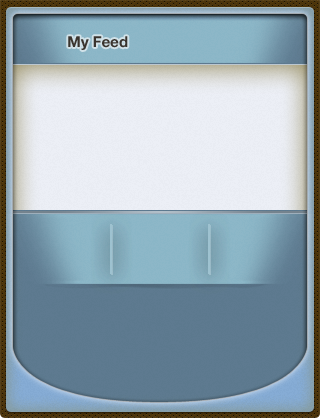
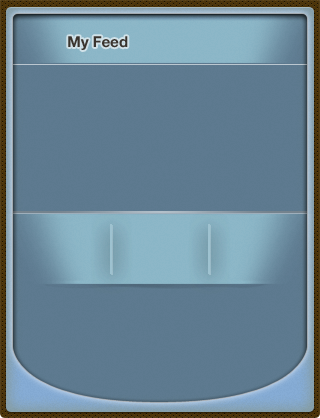
Replaced "Feed" with "Home" in tab bar
Hitting home tab dismisses the tab bar controller

diff --git a/FriendlyWager/TabBarDelegateViewController.m b/FriendlyWager/TabBarDelegateViewController.m
@@ -35,20 +35,23 @@
     [super viewDidLoad];
     // Do any additional setup after loading the view from its nib.
     
-    ScoresViewController *newWagerVC = [[ScoresViewController  alloc]initWithNibName:@"ScoresViewController" bundle:nil];
     MyActionViewController *myActionVC = [[MyActionViewController alloc]initWithNibName:@"MyActionViewController" bundle:nil];
     ScoresViewController *scoresVC = [[ScoresViewController alloc]initWithNibName:@"ScoresViewController" bundle:nil];
+    if (_newWager) {
+        scoresVC.wager = YES;
+        scoresVC.tabBarDelegateScreen = self;
+    }
     RanksViewController *ranksVC = [[RanksViewController alloc]initWithNibName:@"RanksViewController" bundle:nil];
-    FeedViewController *trashTalkVC = [[FeedViewController alloc]initWithNibName:@"FeedViewController" bundle:nil];
+    TrashTalkViewController *homeVC = [[TrashTalkViewController  alloc]initWithNibName:@"TrashTalkViewController" bundle:nil];
+    //FeedViewController *trashTalkVC = [[FeedViewController alloc]initWithNibName:@"FeedViewController" bundle:nil];
     
-    UINavigationController *newWagerNavC = [[UINavigationController alloc]initWithRootViewController:newWagerVC];
     UINavigationController *actionNavC = [[UINavigationController alloc]initWithRootViewController:myActionVC];
     UINavigationController *scoresNavC = [[UINavigationController alloc]initWithRootViewController:scoresVC];
     UINavigationController *ranksNavC = [[UINavigationController alloc]initWithRootViewController:ranksVC];
-    UINavigationController *trashTalkNavC = [[UINavigationController alloc]initWithRootViewController:trashTalkVC];
+    UINavigationController *homeNavC = [[UINavigationController alloc]initWithRootViewController:homeVC];
+    //UINavigationController *trashTalkNavC = [[UINavigationController alloc]initWithRootViewController:trashTalkVC];
     
-    //UITabBarItem *newWagerBarItem = [[UITabBarItem alloc] initWithTitle:@"New Wager" image:[UIImage imageNamed:@"FW_PG17_Cancel_Button"] tag:0];
-    //[newWagerNavC setTabBarItem:newWagerBarItem];
+    
     
     UITabBarItem *myActionBarItem = [[UITabBarItem alloc] initWithTitle:@"My Action" image:[UIImage imageNamed:@"FW_PG17_Cancel_Button"] tag:0];
     [myActionBarItem setFinishedSelectedImage:[UIImage imageNamed:@"myActionOnBtn"]
@@ -62,27 +65,32 @@
     [scoresBarItem setTitlePositionAdjustment:UIOffsetMake(0, 100)];
     [scoresNavC setTabBarItem:scoresBarItem];
     
-    UITabBarItem *ranksBarItem = [[UITabBarItem alloc] initWithTitle:@"Ranks" image:[UIImage imageNamed:@"FW_PG17_Cancel_Button"] tag:1];
+    UITabBarItem *ranksBarItem = [[UITabBarItem alloc] initWithTitle:@"Ranks" image:[UIImage imageNamed:@"FW_PG17_Cancel_Button"] tag:2];
     [ranksBarItem setFinishedSelectedImage:[UIImage imageNamed:@"rankingOnBtn"]
                 withFinishedUnselectedImage:[UIImage imageNamed:@"rankingOffBtn"]];
     [ranksBarItem setTitlePositionAdjustment:UIOffsetMake(0, 100)];
     [ranksNavC setTabBarItem:ranksBarItem];
     
-    UITabBarItem *trashTalkBarItem = [[UITabBarItem alloc] initWithTitle:@"My Feed" image:[UIImage imageNamed:@"FW_PG17_Cancel_Button"] tag:1];
+    UITabBarItem *homeBarItem = [[UITabBarItem alloc] initWithTitle:@"Home" image:[UIImage imageNamed:@"FW_PG17_Cancel_Button"] tag:3];
+    [homeBarItem setFinishedSelectedImage:[UIImage imageNamed:@"homeOnBtn"] withFinishedUnselectedImage:[UIImage imageNamed:@"homeOffBtn"]];
+    [homeBarItem setTitlePositionAdjustment:UIOffsetMake(0, 100)];
+    [homeNavC setTabBarItem:homeBarItem];
+    
+    /*UITabBarItem *trashTalkBarItem = [[UITabBarItem alloc] initWithTitle:@"My Feed" image:[UIImage imageNamed:@"FW_PG17_Cancel_Button"] tag:1];
     [trashTalkBarItem setFinishedSelectedImage:[UIImage imageNamed:@"feedOnBtn"]
                withFinishedUnselectedImage:[UIImage imageNamed:@"feedOffBtn"]];
     [trashTalkBarItem setTitlePositionAdjustment:UIOffsetMake(0, 100)];
-    [trashTalkNavC setTabBarItem:trashTalkBarItem];
+    [trashTalkNavC setTabBarItem:trashTalkBarItem];*/
     
     [self customizeInterface];
     
-    newWagerVC.wager = YES;
-    newWagerVC.tabBarDelegateScreen = self;
+    //newWagerVC.wager = YES;
+    //newWagerVC.tabBarDelegateScreen = self;
     
     
     self.tabBarController = [[UITabBarController alloc] init];
     self.tabBarController.delegate = self;
-    self.tabBarController.viewControllers = [NSArray arrayWithObjects: actionNavC, scoresNavC, ranksNavC, trashTalkNavC, nil];
+    self.tabBarController.viewControllers = [NSArray arrayWithObjects: actionNavC, scoresNavC, ranksNavC, homeNavC, nil];
     
     self.view = _tabBarController.view;
 }
@@ -97,6 +105,7 @@
 - (void)viewWillAppear:(BOOL)animated {
     [super viewWillAppear:animated];
     [self.navigationController setNavigationBarHidden:YES];
+    
 }
 
 - (BOOL)shouldAutorotateToInterfaceOrientation:(UIInterfaceOrientation)interfaceOrientation
@@ -114,5 +123,12 @@
     [[UITabBar appearance] setBackgroundImage:tabBarBackground];
     
 }
+
+- (void)tabBarController:(UITabBarController *)tabBarController didSelectViewController:(UIViewController *)viewController {
+    if (tabBarController.selectedIndex == 3) {
+        [self dismissTabBarVc];
+    }
+}
+
 
 @end

diff --git a/FriendlyWager/TrashTalkViewController.m b/FriendlyWager/TrashTalkViewController.m
@@ -402,20 +402,21 @@
 }
 
 - (IBAction)myActionButtonClicked:(id)sender {
-    tabBarVc.tabBarController.selectedIndex = 1;
+    tabBarVc.tabBarController.selectedIndex = 0;
     [self.navigationController presentViewController:tabBarNavC animated:YES completion:NULL];
 }
 - (IBAction)scoresButtonClicked:(id)sender {
-    tabBarVc.tabBarController.selectedIndex = 2;
+    tabBarVc.tabBarController.selectedIndex = 1;
     [self.navigationController presentViewController:tabBarNavC animated:YES completion:NULL];
 }
 - (IBAction)rankingButtonClicked:(id)sender {
-    tabBarVc.tabBarController.selectedIndex = 3;
+    tabBarVc.tabBarController.selectedIndex = 2;
     [self.navigationController presentViewController:tabBarNavC animated:YES completion:NULL];
 }
 
 - (IBAction)makeWagerButtonClicked:(id)sender {
-    tabBarVc.tabBarController.selectedIndex = 0;
+    tabBarVc.tabBarController.selectedIndex = 1;
+    tabBarVc.newWager = YES;
     [self.navigationController presentViewController:tabBarNavC animated:YES completion:NULL];
     //[self.navigationController presentViewController:tabBarVc animated:YES completion:NULL];
 }

diff --git a/FriendlyWager/TabBarDelegateViewController.h b/FriendlyWager/TabBarDelegateViewController.h
@@ -21,5 +21,6 @@
 
 @property (nonatomic, retain)IBOutlet UITabBarController *tabBarController;
 @property (nonatomic, retain)id<TabBarDelegate> tabDelegate;
+@property (nonatomic) BOOL newWager;
 
 @end
